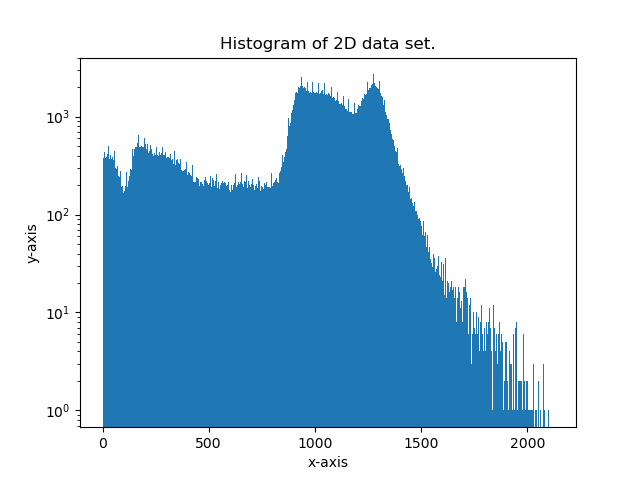
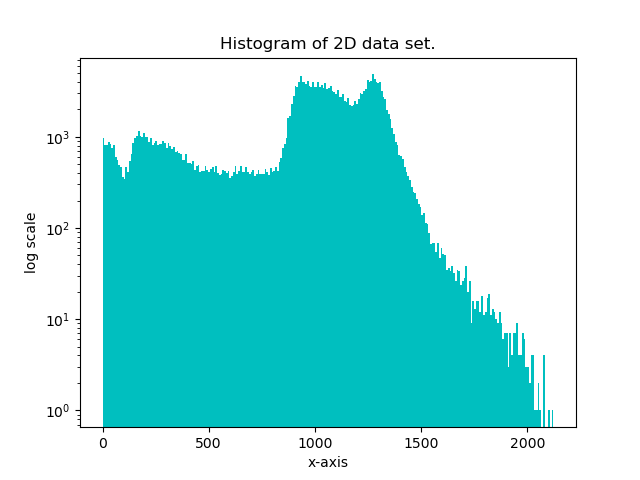
Remove commented code and added output images.

diff --git a/Assignments/Assignment 2/Angiographic.py b/Assignments/Assignment 2/Angiographic.py
@@ -8,149 +8,110 @@ from math import log
 rows, cols = (512, 512)
 filterRows, filterColmns = (502, 502)
 smin, smax = (0, 255)
+rmin, rmax = (0, 0)
 kernelRows, kernelColmns = (11, 11)
 mean, variance = (0.0, 0.0)
-cal = 0.0
-summation = 0
+meanSum, varianceSum, cal = (0, 0, 0.0) 
 linearSum, nonLinearSum = (0, 0)
 sLinear = [[0 for x in range(cols)] for y in range(rows)]
 sNonLinear = [[0 for x in range(cols)] for y in range(rows)]
 boxcarSmoothingFilter = [[0 for x in range(filterColmns)] for y in range(filterRows)]
 medianFilter = [[0 for x in range(filterColmns)] for y in range(filterRows)]
 boxcarSum, boxcarMul  = (0.0, 0.0)
-sliceData = []
-sortArray = []
-
-# print(boxcarSmoothingFilter)
-# print(medianFilter)
+sliceData, sortedArray = ([], [])
 
 # Read and create 2D-array from data in a binary file.
 dataSet = np.fromfile("slice150.raw", dtype=np.uint16).reshape(rows, cols)
-# print(dataSet)
-# print(len(dataSet))
-# print(dataSet.shape) #(512,512) dimension
-# plt.imshow(dataSet,cmap=cm.gray)
-# plt.savefig('Slice150.png')
-# plt.show()
 
 # Create 1D array for future use.
 data = dataSet.flatten()
-# print(data[255]) #Give single element.
-# print(data)
-# print(len(data)) # 262144 size.
-
-# img = Image.fromarray(dataSet,mode='')
-# img.save('Angiographic.png')
-# img.show()
-
 
 # a) Profile line Start.
-# plt.plot(dataSet[255])  #Line 256th
-# plt.title("256th Profile line of data set.")
-# plt.xlabel('x-axis')
-# plt.ylabel('y-axis')
-# plt.savefig("ProfileLine.png")
-# plt.show()
+plt.plot(dataSet[255])  #Line 256th
+plt.title("256th Profile line of data set.")
+plt.xlabel('x-axis')
+plt.ylabel('y-axis')
+plt.savefig("ProfileLine.png")
+plt.show()
 # a) Profile line End.
 
-# count = 0
 # b) Calculate Mean value start.
-# for i in range(len(dataSet)):
-    # summation = summation + sum(dataSet[i])
-# count+= 1
-# print(count)
-# print(summation)
-# mean = (summation / (rows * cols))
-# print('Mean = ' + "{:.2f}".format(mean))
+for i in range(len(dataSet)):
+    meanSum = meanSum + sum(dataSet[i])
+mean = round((meanSum / (rows * cols)),2)
+print('Mean = ', mean)
 # b) Calculate Mean value end.
 
 # b) Calculate Variance value start.
-# summation = 0
-# for li in dataSet:
-    # for item in li:
-        # cal = (item - mean)
-        # summation = summation + (cal * cal)
-# print(summation)
-# variance = (summation / (rows * cols))
-# print('Variance = ' + "{:.2f}".format(variance))
+for li in dataSet:
+    for item in li:
+        cal = (item - mean)
+        varianceSum = varianceSum + (cal * cal)
+variance = round((varianceSum / (rows * cols)),2)
+print('Variance = ', variance)
 # b) Calculate Variance value end.
 
 # c) Histogram start.
-# plt.hist(data,bins=512,log=True)
-# plt.title('Histogram of 2D data set.')
-# plt.xlabel('x-axis')
-# plt.ylabel('y-axis')
-# plt.savefig("Histogram.png")
-# plt.show()
+plt.hist(data,bins=512,log=True,color='c')
+plt.title('Histogram of 2D data set.')
+plt.xlabel('x-axis')
+plt.ylabel('log scale')
+plt.savefig("Histogram.png")
+plt.show()
 # c) Histogram end.
 
 # d) Linear transformation Start.
 rmin = min(data)
 rmax = max(data)
-# print(rmin,rmax)
-# for r in range(rows):
-    # for c in range(cols):
-        # sLinear[r][c] = int(round(((dataSet[r][c] - rmin) / (rmax - rmin)) * smax))
-# print(sLinear)
-# print(len(sLinear))
-# print(min(sLinear.flatten()))
-# pop = np.asarray(sLinear)
-# print(min(pop.flatten()),max(pop.flatten()))
-# plt.imshow(sLinear,cmap='gray')
-# plt.title('Linear Transformation of 2D Data set in range between 0 to 255.')
-# ax = plt.gca()
-# ax.xaxis.tick_top()
-# plt.savefig('LinearTransformation.png')
-# plt.show()
+for r in range(rows):
+    for c in range(cols):
+        sLinear[r][c] = int(round(((dataSet[r][c] - rmin) / (rmax - rmin)) * smax))
+plt.imshow(sLinear,cmap='gray')
+plt.title('Linear Transformation of 2D Data set in range between 0 to 255.')
+ax = plt.gca()
+ax.axes.get_xaxis().set_visible(False)
+ax.axes.get_yaxis().set_visible(False)
+plt.savefig('LinearTransformation.png')
+plt.show()
 # d) Linear transformation End.
 
 # e) Different transformation start.
-# constant = smax / log(rmax + 1, 2)
-# print(c)
-# for m in range(rows):
-    # for n in range(cols):
-        # sNonLinear[m][n] = int(round(constant * (log(dataSet[m][n] + 1, 2))))
-# print(sNonLinear)
-# pop = np.asarray(sNonLinear)
-# print(min(pop.flatten()),max(pop.flatten()))
-# print(pop)
-# plt.imshow(sNonLinear,cmap='gray')
-# plt.title('Non-Linear Transformation of 2D Data set in range between 0 to 255.')
-# ax = plt.gca()
-# ax.xaxis.tick_top()
-# plt.savefig('Non-LinearTransformation.png')
-# plt.show()
+constant = smax / log(rmax + 1, 2)
+for m in range(rows):
+    for n in range(cols):
+        sNonLinear[m][n] = int(round(constant * (log(dataSet[m][n] + 1, 2))))
+plt.imshow(sNonLinear,cmap='gray')
+plt.title('Non-Linear Transformation of 2D Data set in range between 0 to 255.')
+ax = plt.gca()
+ax.axes.get_xaxis().set_visible(False)
+ax.axes.get_yaxis().set_visible(False)
+plt.savefig('Non-LinearTransformation.png')
+plt.show()
 # e) Different transformation end.
 
 # f) 11x11 boxcar smoothing filter start.
-# for ro in range(filterRows):
-    # for co in range(filterColmns):
-        # rowEnd = (ro + kernelRows)
-        # columnEnd = (co + kernelColmns)
-        # for arrayList in dataSet[ro:rowEnd, co:columnEnd]:
-            # for item in arrayList:
-                # boxcarMul = ((1 / (kernelRows * kernelColmns)) * item)
-                # boxcarSum = boxcarSum + boxcarMul       
-        # boxcarSmoothingFilter[ro][co] = int(round(boxcarSum))
-        # boxcarSum, boxcarMul = (0.0, 0.0)
-# print(boxcarSmoothingFilter)
-# pop = np.asarray(boxcarSmoothingFilter).flatten()
-# print(min(pop),max(pop))
-# print(len(pop))
-# print(pop)
-# plt.imshow(boxcarSmoothingFilter,cmap='gray')
-# plt.title('An 11x11 boxcar smoothing filter on the 2D data set.')
-# ax = plt.gca()
-# ax.xaxis.tick_top()
-# plt.savefig('BoxcarSmoothingFilter.png')
-# plt.show()
+for ro in range(filterRows):
+    for co in range(filterColmns):
+        rowEnd = (ro + kernelRows)
+        columnEnd = (co + kernelColmns)
+        for arrayList in dataSet[ro:rowEnd, co:columnEnd]:
+            for item in arrayList:
+                boxcarMul = ((1 / (kernelRows * kernelColmns)) * item)
+                boxcarSum = boxcarSum + boxcarMul       
+        boxcarSmoothingFilter[ro][co] = int(round(boxcarSum))
+        boxcarSum, boxcarMul = (0.0, 0.0)
+plt.imshow(boxcarSmoothingFilter,cmap='gray')
+plt.title('An 11x11 boxcar smoothing filter on the 2D data set.')
+ax = plt.gca()
+ax.axes.get_xaxis().set_visible(False)
+ax.axes.get_yaxis().set_visible(False)
+plt.savefig('BoxcarSmoothingFilter.png')
+plt.show()
 # f) 11x11 boxcar smoothing filter end.
 
 # g) 11x11 median filter start
-
 def BubbleSort(li):
-    length = len(li)
-    # print(length)
+    length = len(li)    
     for i in range(length-1):
         for j in range(0,length-i-1):
             if li[j] > li[j+1]:
@@ -164,24 +125,15 @@ for r in range(filterRows):
         for arrayList in dataSet[r:rEnd, c:cEnd]:
             for item in arrayList:
                 sliceData.append(item)
-        sortArray = BubbleSort(sliceData)
-        # print(len(sortArray))
-        middleItem = len(sortArray) // 2
-        # print(middleItem)
-        # print(sortArray[middleItem])
-        medianFilter[r][c] = int(round(sortArray[middleItem]))
-        sortArray = []
-        sliceData = []
-        middleItem = 0
-# print(medianFilter)
-# pop = np.asarray(medianFilter)
-# print(min(pop),max(pop))
-# print(len(pop))
-# print(pop)
+        sortedArray = BubbleSort(sliceData)        
+        middleIndex = len(sortedArray) // 2                
+        medianFilter[r][c] = int(round(sortedArray[middleIndex]))
+        sliceData = [], sortedArray = [], middleItem = 0
 plt.imshow(medianFilter,cmap='gray')
 plt.title('An 11x11 Median filter on the 2D data set.')
 ax = plt.gca()
-ax.xaxis.tick_top()
+ax.axes.get_xaxis().set_visible(False)
+ax.axes.get_yaxis().set_visible(False)
 plt.savefig('MedianFilter.png')
 plt.show()
 # g) 11x11 median filter end
